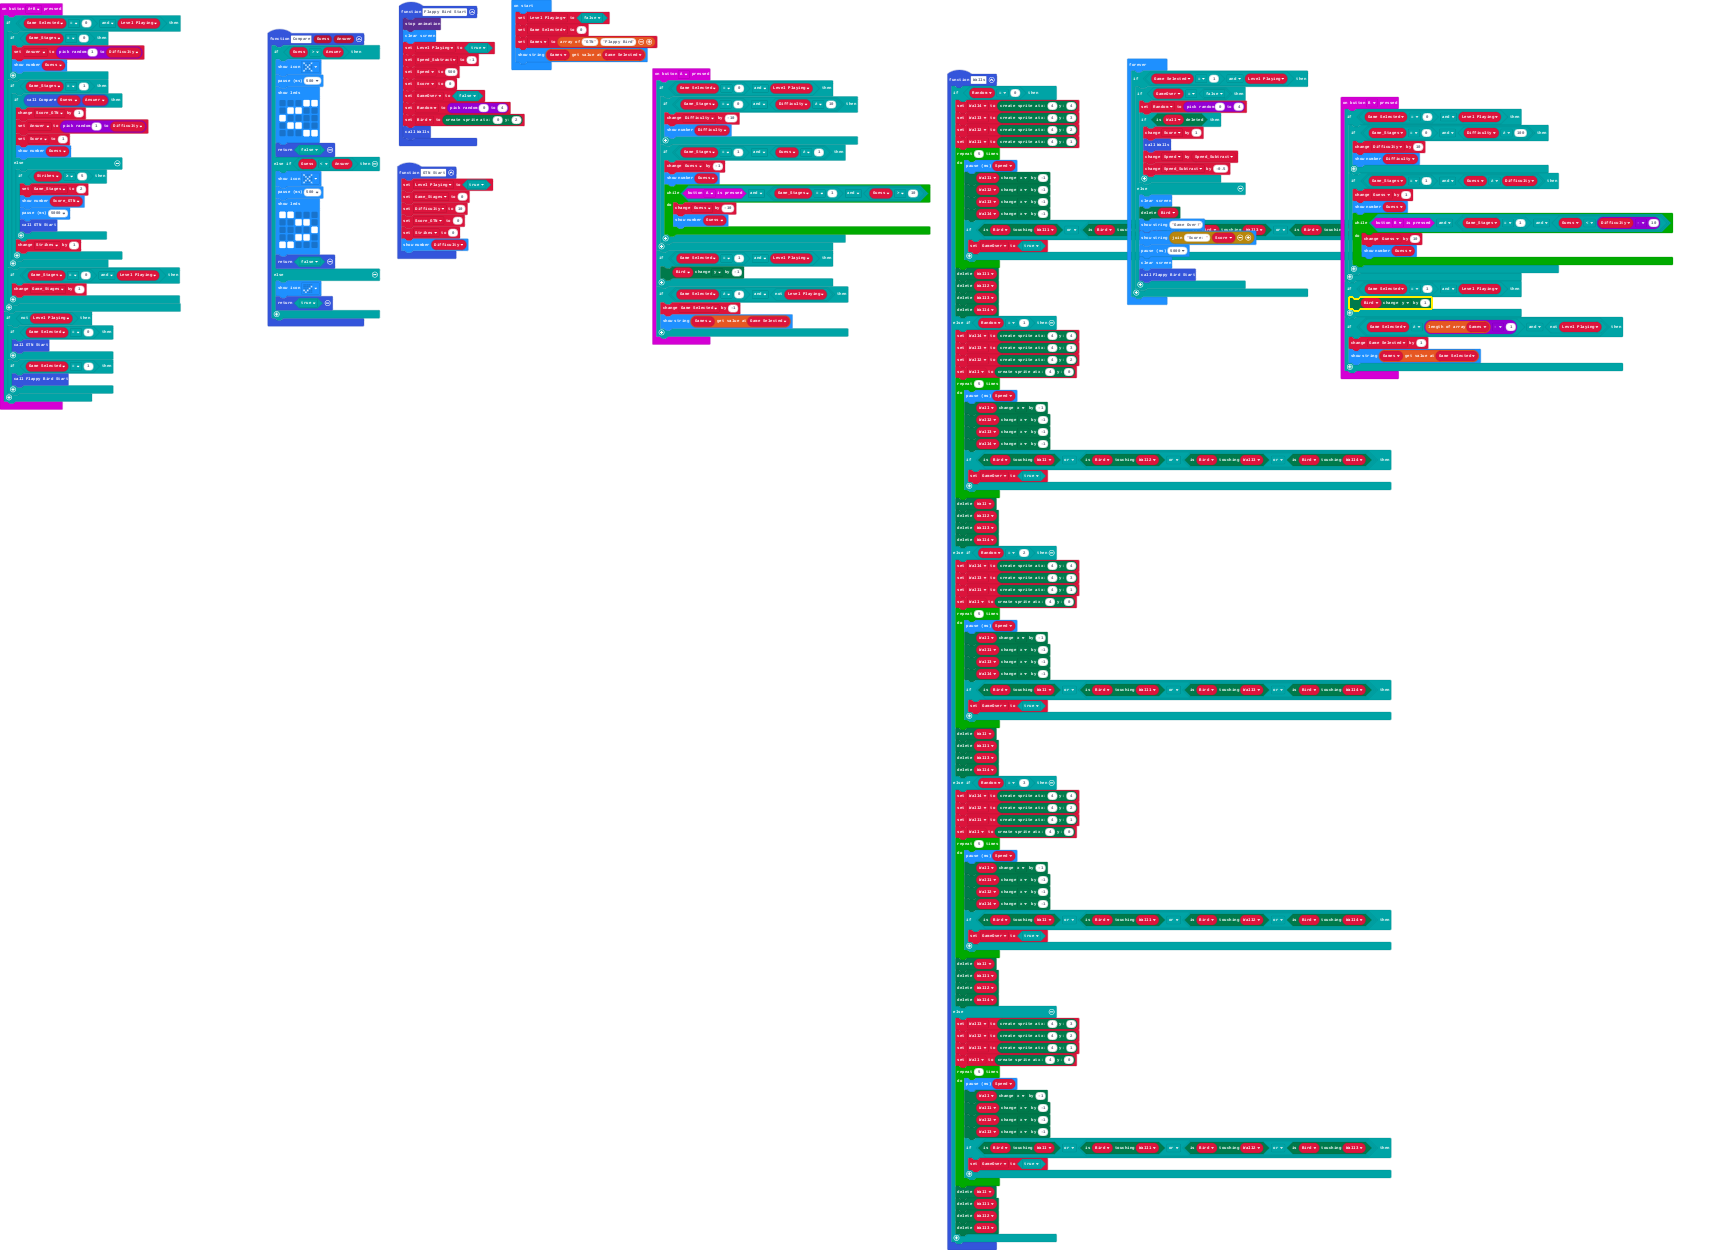
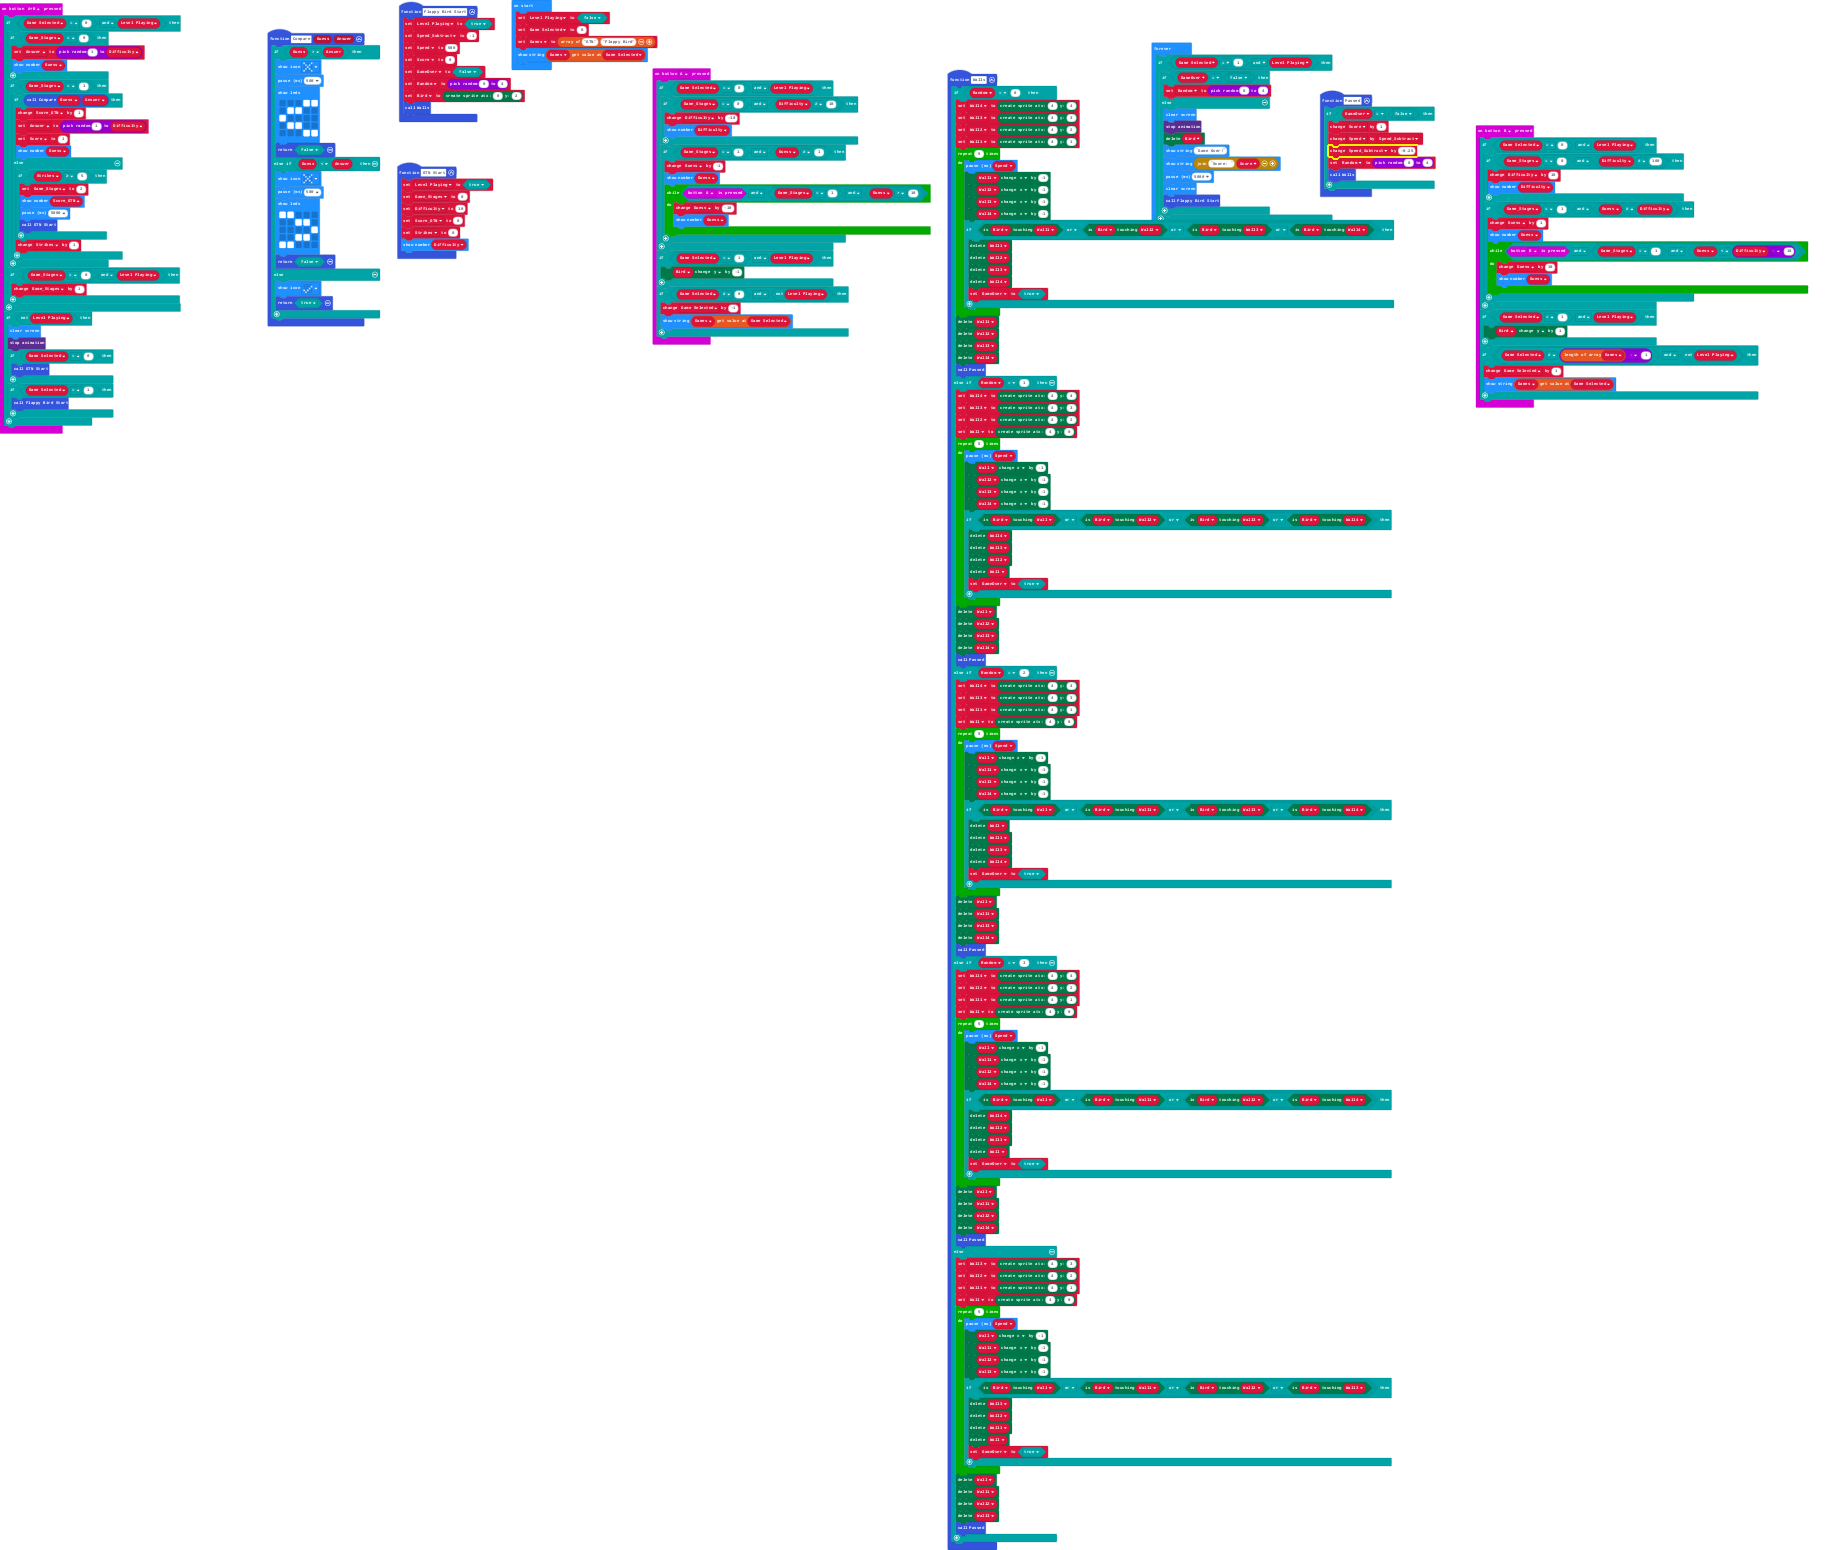
Update main.blocks, main.ts

Changed region(s): [[0.0, 0.0, 0.9907, 1.0]]

diff --git a/main.ts b/main.ts
@@ -57,9 +57,16 @@ function Compare (Guess: number, Answer: number) {
         return true
     }
 }
+function Passed () {
+    if (GameOver == false) {
+        Score += 1
+        Speed += Speed_Subtract
+        Speed_Subtract += -0.25
+        Random = randint(0, 4)
+        Walls()
+    }
+}
 function Flappy_Bird_Start () {
-    led.stopAnimation()
-    basic.clearScreen()
     Level_Playing = true
     Speed_Subtract = -1
     Speed = 500
@@ -96,6 +103,8 @@ input.onButtonPressed(Button.AB, function () {
         }
     }
     if (!(Level_Playing)) {
+        basic.clearScreen()
+        led.stopAnimation()
         if (Game_Selected == 0) {
             GTN_Start()
         }
@@ -140,6 +149,10 @@ function Walls () {
             Wall3.change(LedSpriteProperty.X, -1)
             Wall4.change(LedSpriteProperty.X, -1)
             if (Bird.isTouching(Wall1) || (Bird.isTouching(Wall2) || (Bird.isTouching(Wall3) || Bird.isTouching(Wall4)))) {
+                Wall1.delete()
+                Wall2.delete()
+                Wall3.delete()
+                Wall4.delete()
                 GameOver = true
             }
         }
@@ -147,6 +160,7 @@ function Walls () {
         Wall2.delete()
         Wall3.delete()
         Wall4.delete()
+        Passed()
     } else if (Random == 1) {
         Wall4 = game.createSprite(4, 4)
         Wall3 = game.createSprite(4, 3)
@@ -159,6 +173,10 @@ function Walls () {
             Wall3.change(LedSpriteProperty.X, -1)
             Wall4.change(LedSpriteProperty.X, -1)
             if (Bird.isTouching(Wall) || (Bird.isTouching(Wall2) || (Bird.isTouching(Wall3) || Bird.isTouching(Wall4)))) {
+                Wall4.delete()
+                Wall3.delete()
+                Wall2.delete()
+                Wall.delete()
                 GameOver = true
             }
         }
@@ -166,6 +184,7 @@ function Walls () {
         Wall2.delete()
         Wall3.delete()
         Wall4.delete()
+        Passed()
     } else if (Random == 2) {
         Wall4 = game.createSprite(4, 4)
         Wall3 = game.createSprite(4, 3)
@@ -178,6 +197,10 @@ function Walls () {
             Wall3.change(LedSpriteProperty.X, -1)
             Wall4.change(LedSpriteProperty.X, -1)
             if (Bird.isTouching(Wall) || (Bird.isTouching(Wall1) || (Bird.isTouching(Wall3) || Bird.isTouching(Wall4)))) {
+                Wall.delete()
+                Wall1.delete()
+                Wall3.delete()
+                Wall4.delete()
                 GameOver = true
             }
         }
@@ -185,6 +208,7 @@ function Walls () {
         Wall1.delete()
         Wall3.delete()
         Wall4.delete()
+        Passed()
     } else if (Random == 3) {
         Wall4 = game.createSprite(4, 4)
         Wall2 = game.createSprite(4, 2)
@@ -197,6 +221,10 @@ function Walls () {
             Wall2.change(LedSpriteProperty.X, -1)
             Wall4.change(LedSpriteProperty.X, -1)
             if (Bird.isTouching(Wall) || (Bird.isTouching(Wall1) || (Bird.isTouching(Wall2) || Bird.isTouching(Wall4)))) {
+                Wall4.delete()
+                Wall2.delete()
+                Wall1.delete()
+                Wall.delete()
                 GameOver = true
             }
         }
@@ -204,6 +232,7 @@ function Walls () {
         Wall1.delete()
         Wall2.delete()
         Wall4.delete()
+        Passed()
     } else {
         Wall3 = game.createSprite(4, 3)
         Wall2 = game.createSprite(4, 2)
@@ -216,6 +245,10 @@ function Walls () {
             Wall2.change(LedSpriteProperty.X, -1)
             Wall3.change(LedSpriteProperty.X, -1)
             if (Bird.isTouching(Wall) || (Bird.isTouching(Wall1) || (Bird.isTouching(Wall2) || Bird.isTouching(Wall3)))) {
+                Wall3.delete()
+                Wall2.delete()
+                Wall1.delete()
+                Wall.delete()
                 GameOver = true
             }
         }
@@ -223,6 +256,7 @@ function Walls () {
         Wall1.delete()
         Wall2.delete()
         Wall3.delete()
+        Passed()
     }
 }
 let Wall: game.LedSprite = null
@@ -232,10 +266,10 @@ let Wall3: game.LedSprite = null
 let Wall4: game.LedSprite = null
 let Answer = 0
 let Random = 0
-let GameOver = false
-let Score = 0
-let Speed = 0
 let Speed_Subtract = 0
+let Speed = 0
+let Score = 0
+let GameOver = false
 let Bird: game.LedSprite = null
 let Guess = 0
 let Strikes = 0
@@ -253,14 +287,9 @@ basic.forever(function () {
     if (Game_Selected == 1 && Level_Playing) {
         if (GameOver == false) {
             Random = randint(0, 4)
-            if (Wall.isDeleted()) {
-                Score += 1
-                Walls()
-                Speed += Speed_Subtract
-                Speed_Subtract += -0.5
-            }
         } else {
             basic.clearScreen()
+            led.stopAnimation()
             Bird.delete()
             basic.showString("Game Over!")
             basic.showString("Score: " + Score)
